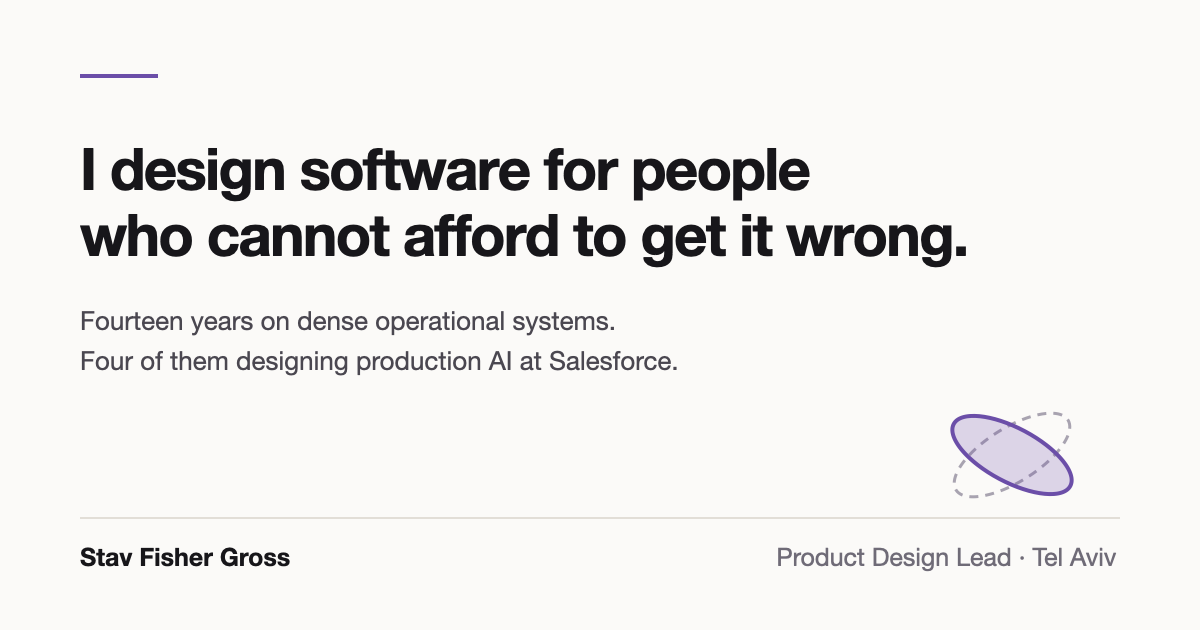
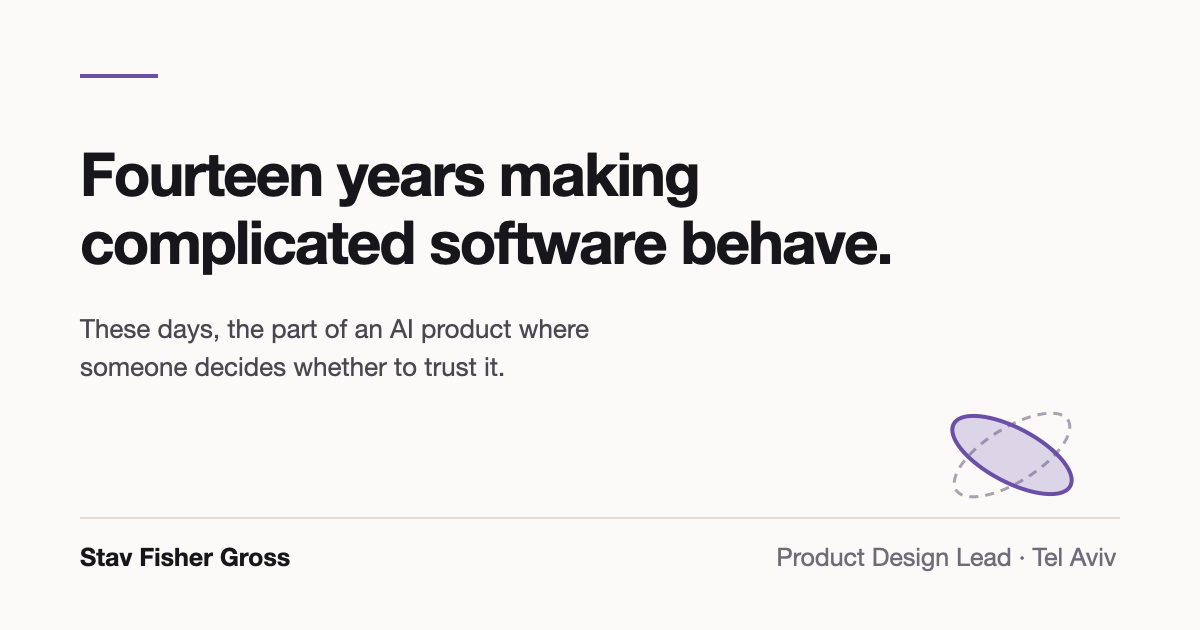
Retire the grand tagline; it failed on the work that matters most
Stav rejected the "software for people who cannot afford to get it wrong" line
as grand and restrictive. She was right on both, and for a sharper reason than
either of us gave first: it is only accurate about aerial defense in 2013 and
aircraft maintenance in 2018. A support rep sending an imperfect email is not a
life-or-death consequence, so the line failed on all four years of Salesforce
work. I had built a narrative about consequence and then chosen four case
studies that are not about consequence.

Naming a domain also fences her in. A game studio would not see themselves in
it. The real through-line is legibility rather than stakes, which is true of
every project and carries into any industry.

Hero is now "Fourteen years making complicated software behave", understated and
true across everything. The trust line sits lower on the home page and in the
About, where it only has to describe the AI work.

Rebuilt the Open Graph card, which had the retired line rendered into the image,
and updated the meta descriptions.

Changed region(s): [[0.0617, 0.2413, 0.8017, 0.4524], [0.0617, 0.4825, 0.555, 0.6032]]

diff --git a/index.html b/index.html
@@ -8,18 +8,18 @@
      Until then, being indexed under her real name is all downside: the
      two lead case studies are unwritten and the copy is not in her voice. -->
 <title>Stav Fisher Gross — Product Designer</title>
-<meta name="description" content="Product designer. Fourteen years on complex operational software, the last four designing production AI for enterprise support teams at Salesforce.">
+<meta name="description" content="Product designer. Fourteen years on complicated software, the last four designing AI inside Salesforce Service Cloud.">
 <link rel="icon" href="favicon.svg" type="image/svg+xml">
 <link rel="canonical" href="https://stav-fg.github.io/">
 <meta property="og:type" content="profile">
 <meta property="og:site_name" content="Stav Fisher Gross">
 <meta property="og:title" content="Stav Fisher Gross — Product Designer">
-<meta property="og:description" content="Product designer. Fourteen years on complex operational software, the last four designing production AI for enterprise support teams at Salesforce.">
+<meta property="og:description" content="Product designer. Fourteen years on complicated software, the last four designing AI inside Salesforce Service Cloud.">
 <meta property="og:url" content="https://stav-fg.github.io/">
 <meta property="og:image" content="https://stav-fg.github.io/assets/og-card.png">
 <meta property="og:image:width" content="1200">
 <meta property="og:image:height" content="630">
-<meta property="og:image:alt" content="Stav Fisher Gross, Product Design Lead. I design software for people who can't afford to get it wrong.">
+<meta property="og:image:alt" content="Stav Fisher Gross, Product Design Lead. Fourteen years making complicated software behave.">
 <meta name="twitter:card" content="summary_large_image">
 <link rel="apple-touch-icon" href="apple-touch-icon.png">
 <link rel="preconnect" href="https://fonts.googleapis.com">
@@ -45,15 +45,14 @@
   <div class="shell">
 
     <div class="hero">
-      <h1>I design software for people who can't afford to get it wrong.</h1>
+      <h1>Fourteen years making complicated software behave.</h1>
       <p class="lead">
-        Fourteen years of it. I started on aerial defense software in an Air Force unit. Since 2022
-        I have been at Salesforce, designing AI inside Service Cloud. In between, aircraft
-        maintenance on hardened tablets and scheduling for US dialysis clinics.
+        I started on aerial defense software in an Air Force unit. Since 2022 I have been at
+        Salesforce, designing AI inside Service Cloud. In between, aircraft maintenance on hardened
+        tablets and scheduling for US dialysis clinics.
       </p>
       <p class="lead" style="margin-top:var(--s-3);">
-        Underneath, the work has always been the same. A machine proposes something. A person is
-        accountable for it. I design the space between those two facts.
+        These days I design the part of an AI product where someone decides whether to trust it.
       </p>
     </div>
 

diff --git a/about.html b/about.html
@@ -19,7 +19,7 @@
 <meta property="og:image" content="https://stav-fg.github.io/assets/og-card.png">
 <meta property="og:image:width" content="1200">
 <meta property="og:image:height" content="630">
-<meta property="og:image:alt" content="Stav Fisher Gross, Product Design Lead. I design software for people who can't afford to get it wrong.">
+<meta property="og:image:alt" content="Stav Fisher Gross, Product Design Lead. Fourteen years making complicated software behave.">
 <meta name="twitter:card" content="summary_large_image">
 <link rel="apple-touch-icon" href="apple-touch-icon.png">
 <link rel="preconnect" href="https://fonts.googleapis.com">
@@ -75,10 +75,11 @@
         Israel and San Francisco. For part of it I was the only designer across all six.
       </p>
       <p>
-        The question underneath all of them was how much the machine should do on its own. I ended
-        up working on it at four points on the same scale: training a model and choosing which one
-        runs, drafting something for a person to approve, acting without asking, and deciding what
-        the thing is allowed to touch in the first place.
+        I design the part of an AI product where someone decides whether to trust it. That is the
+        moment a person has to judge whether what a machine produced is good enough to send, and
+        what they can see in order to make that call. I worked on it at four points: training a
+        model and choosing which one runs, drafting something for a person to approve, acting
+        without asking, and deciding what the thing is allowed to touch in the first place.
       </p>
 
       <h3>Changing how the work ships</h3>

diff --git a/work/aircraft-maintenance.html b/work/aircraft-maintenance.html
@@ -19,7 +19,7 @@
 <meta property="og:image" content="https://stav-fg.github.io/assets/og-card.png">
 <meta property="og:image:width" content="1200">
 <meta property="og:image:height" content="630">
-<meta property="og:image:alt" content="Stav Fisher Gross, Product Design Lead. I design software for people who can't afford to get it wrong.">
+<meta property="og:image:alt" content="Stav Fisher Gross, Product Design Lead. Fourteen years making complicated software behave.">
 <meta name="twitter:card" content="summary_large_image">
 <link rel="apple-touch-icon" href="../apple-touch-icon.png">
 <link rel="preconnect" href="https://fonts.googleapis.com">

diff --git a/work/founding-a-design-function.html b/work/founding-a-design-function.html
@@ -19,7 +19,7 @@
 <meta property="og:image" content="https://stav-fg.github.io/assets/og-card.png">
 <meta property="og:image:width" content="1200">
 <meta property="og:image:height" content="630">
-<meta property="og:image:alt" content="Stav Fisher Gross, Product Design Lead. I design software for people who can't afford to get it wrong.">
+<meta property="og:image:alt" content="Stav Fisher Gross, Product Design Lead. Fourteen years making complicated software behave.">
 <meta name="twitter:card" content="summary_large_image">
 <link rel="apple-touch-icon" href="../apple-touch-icon.png">
 <link rel="preconnect" href="https://fonts.googleapis.com">

diff --git a/cv.html b/cv.html
@@ -19,7 +19,7 @@
 <meta property="og:image" content="https://stav-fg.github.io/assets/og-card.png">
 <meta property="og:image:width" content="1200">
 <meta property="og:image:height" content="630">
-<meta property="og:image:alt" content="Stav Fisher Gross, Product Design Lead. I design software for people who can't afford to get it wrong.">
+<meta property="og:image:alt" content="Stav Fisher Gross, Product Design Lead. Fourteen years making complicated software behave.">
 <meta name="twitter:card" content="summary_large_image">
 <link rel="apple-touch-icon" href="apple-touch-icon.png">
 <link rel="preconnect" href="https://fonts.googleapis.com">

diff --git a/notes/canonical-narrative.md b/notes/canonical-narrative.md
@@ -7,8 +7,31 @@ serve it should be cut, however good it is.
 
 ## The claim, in one sentence
 
-**Stav designs the line between what a machine decides and what a person decides, in software
-where being wrong costs something.**
+**Fourteen years making complicated software behave. These days, the part of an AI product where
+someone decides whether to trust it.**
+
+The first sentence covers everything she has done. The second covers the last four years and sits
+lower on the page, where it only has to be true of the Salesforce work.
+
+### What this replaced, and why
+
+The earlier claim was that she designs the line between what a machine decides and what a person
+decides, in software where being wrong costs something. Stav rejected it and she was right, for a
+reason worth recording.
+
+It sounds grand, and it is only accurate about two projects: aerial defense in 2013 and aircraft
+maintenance in 2018. A support rep sending a slightly imperfect email is not a life-or-death
+consequence, so the line **failed on all four years of the work that matters most.** I had built a
+narrative about consequence and then chosen four case studies that are not about consequence.
+
+It was also restrictive. Naming a domain fences her in, and a game studio reading it would not see
+themselves. Naming a kind of problem travels.
+
+**The real through-line is legibility rather than stakes.** An unreadable cluster of threats made
+readable. Dozens of procedure steps across three systems made into one flow. A model comparison a
+non-specialist can choose from. A machine's reasoning a rep can inspect before sending. What an AI
+may touch, made explicit. A sprawling product turned into a visible path. That is true of every
+project in the portfolio, and it carries into any industry.
 
 ## The claim, in a paragraph
 
